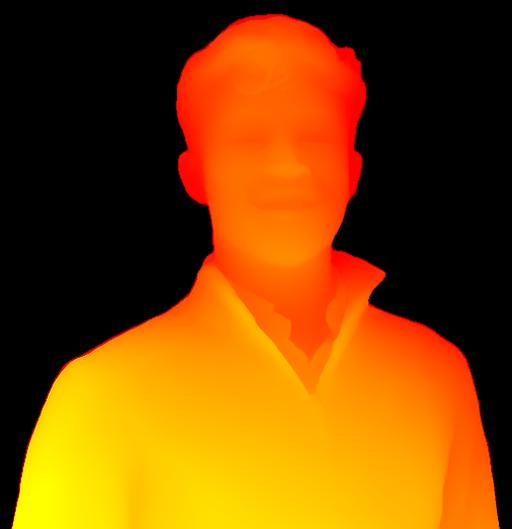
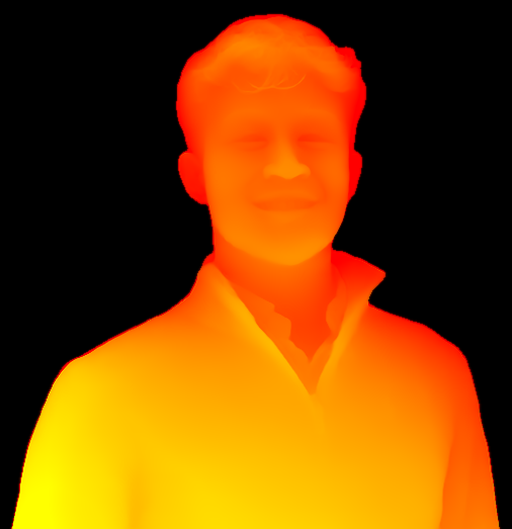
Hide the terminal peel during every intro; sharpen the face depth
PagePeel now stays off while any intro owns the viewport, driven by the
intro-shown / intro-done events every intro dispatches (Space and Terminal
now announce themselves too) and by html.scanning before first paint. The
asset script runs a second depth pass on the face alone and blends its
relief into the face window, so eyes, lips and nostrils come through.

Claude-Session: https://claude.ai/code/session_01Pe2CFRF1WNG3M6qiksVfTX

diff --git a/components/PagePeel.tsx b/components/PagePeel.tsx
@@ -1,10 +1,44 @@
 "use client";
 
-import { useState, useRef, useCallback, useEffect } from "react";
+import {
+  useState,
+  useRef,
+  useCallback,
+  useEffect,
+  useSyncExternalStore,
+} from "react";
 import { usePathname, useRouter } from "next/navigation";
 import { useMounted } from "@/hooks/useMounted";
 
 const HIDDEN_ROUTES = ["/terminal", "/space"];
+
+// Whether an intro currently owns the viewport. Every intro announces
+// itself with intro-shown / intro-done; the home scan also sets
+// html.scanning before first paint, which covers the frame between this
+// mounting and that event arriving.
+let introFlag: boolean | null = null;
+function getIntroActive() {
+  if (introFlag === null) {
+    introFlag = document.documentElement.classList.contains("scanning");
+  }
+  return introFlag;
+}
+function subscribeIntro(onChange: () => void) {
+  const shown = () => {
+    introFlag = true;
+    onChange();
+  };
+  const done = () => {
+    introFlag = false;
+    onChange();
+  };
+  window.addEventListener("intro-shown", shown);
+  window.addEventListener("intro-done", done);
+  return () => {
+    window.removeEventListener("intro-shown", shown);
+    window.removeEventListener("intro-done", done);
+  };
+}
 
 export default function PagePeel() {
   const pathname = usePathname();
@@ -16,6 +50,14 @@ export default function PagePeel() {
   const [viewportSize, setViewportSize] = useState({ w: 1920, h: 1080 });
   const [isDark, setIsDark] = useState(true);
   const [prevPathname, setPrevPathname] = useState(pathname);
+  // Every intro announces itself with intro-shown / intro-done. The home
+  // scan also sets html.scanning before first paint, which covers the frame
+  // between this mounting and that event arriving.
+  const introActive = useSyncExternalStore(
+    subscribeIntro,
+    getIntroActive,
+    () => false,
+  );
 
   // Drag state kept in refs to avoid re-renders on every pointer move
   const draggingRef = useRef(false);
@@ -233,7 +275,7 @@ export default function PagePeel() {
   }, [mounted, expanding, idleSize, hoverExtra, hovered, applyPeelSize]);
 
   if (HIDDEN_ROUTES.includes(pathname)) return null;
-  if (!mounted) return null;
+  if (!mounted || introActive) return null;
 
   const s = hovered ? idleSize + hoverExtra : idleSize;
   const sh = s * 1.15;

diff --git a/components/SpaceIntroScreen.tsx b/components/SpaceIntroScreen.tsx
@@ -9,6 +9,9 @@ const INTERVAL = 90; // ms per character — slightly slower for drama
 export default function SpaceIntroScreen() {
   const [mounted, setMounted] = useState(false);
   const [show, setShow] = useState(true);
+  useEffect(() => {
+    window.dispatchEvent(new Event(show ? "intro-shown" : "intro-done"));
+  }, [show]);
   const [fading, setFading] = useState(false);
   const [line1, setLine1] = useState(0);
   const [line2, setLine2] = useState<number | null>(null);

diff --git a/components/TerminalIntroScreen.tsx b/components/TerminalIntroScreen.tsx
@@ -21,6 +21,9 @@ interface Props {
 export default function TerminalIntroScreen({ onComplete }: Props) {
   const mounted = useMounted();
   const [show, setShow] = useState(true);
+  useEffect(() => {
+    window.dispatchEvent(new Event(show ? "intro-shown" : "intro-done"));
+  }, [show]);
   const [fading, setFading] = useState(false);
   const [visibleLines, setVisibleLines] = useState(0);
   const [progress, setProgress] = useState(0);

diff --git a/scripts/build-portrait-scan.py b/scripts/build-portrait-scan.py
@@ -92,6 +92,10 @@ def blur(a: np.ndarray, radius: float) -> np.ndarray:
 RELIEF_MIX = 0.35
 RELIEF_RADIUS = 0.07  # of the crop width
 
+# The face window inside the crop, as fractions (x0, x1, y0, y1). Keep in
+# step with FACE_CROP in components/PortraitScan.tsx.
+FACE = (0.31, 0.75, 0.0, 0.52)
+
 
 def main() -> int:
     ap = argparse.ArgumentParser()
@@ -152,6 +156,38 @@ def main() -> int:
     # background does not bleed into the relief at the silhouette edge.
     d_fill = np.where(inside, d, d[inside].mean())
     local = d_fill - blur(d_fill, RELIEF_RADIUS * (x1 - x0))
+
+    # A second depth pass on the face alone. On the whole crop the face
+    # gets a third of the model's input; on its own it gets all of it, so
+    # eye sockets, lips and nostrils come through. Its relief is blended
+    # into the face window with a feathered edge. The window matches
+    # FACE_CROP in components/PortraitScan.tsx.
+    fw, fh = x1 - x0, y1 - y0
+    fx0, fx1 = int(FACE[0] * fw), int(FACE[1] * fw)
+    fy0, fy1 = int(FACE[2] * fh), int(FACE[3] * fh)
+    face_full = full.crop(
+        (
+            int((x0 + fx0) * k),
+            int((y0 + fy0) * k),
+            int((x0 + fx1) * k),
+            int((y0 + fy1) * k),
+        )
+    ).resize((fx1 - fx0, fy1 - fy0), Image.LANCZOS)
+    print("face depth…")
+    df = depth(face_full, Path(args.model))
+    ins_f = inside[fy0:fy1, fx0:fx1]
+    df_fill = np.where(ins_f, df, df[ins_f].mean() if ins_f.any() else df.mean())
+    local_f = df_fill - blur(df_fill, RELIEF_RADIUS * (fx1 - fx0))
+    # Match the face relief's scale to the crop relief's scale inside the
+    # window, then feather it in.
+    ref = local[fy0:fy1, fx0:fx1]
+    sf = (np.std(ref[ins_f]) / (np.std(local_f[ins_f]) + 1e-6)) if ins_f.any() else 1.0
+    yy, xx = np.mgrid[0 : fy1 - fy0, 0 : fx1 - fx0]
+    ex = np.minimum(xx, (fx1 - fx0 - 1) - xx) / max(1, (fx1 - fx0) * 0.12)
+    ey = np.minimum(yy, (fy1 - fy0 - 1) - yy) / max(1, (fy1 - fy0) * 0.12)
+    feather = np.clip(np.minimum(ex, ey), 0, 1)
+    local[fy0:fy1, fx0:fx1] = ref * (1 - feather) + (local_f * sf) * feather
+
     dn = np.clip((1 - RELIEF_MIX) * norm(d) + RELIEF_MIX * norm(local), 0, 1)
     dn[~(a > 0.02)] = 0
 
